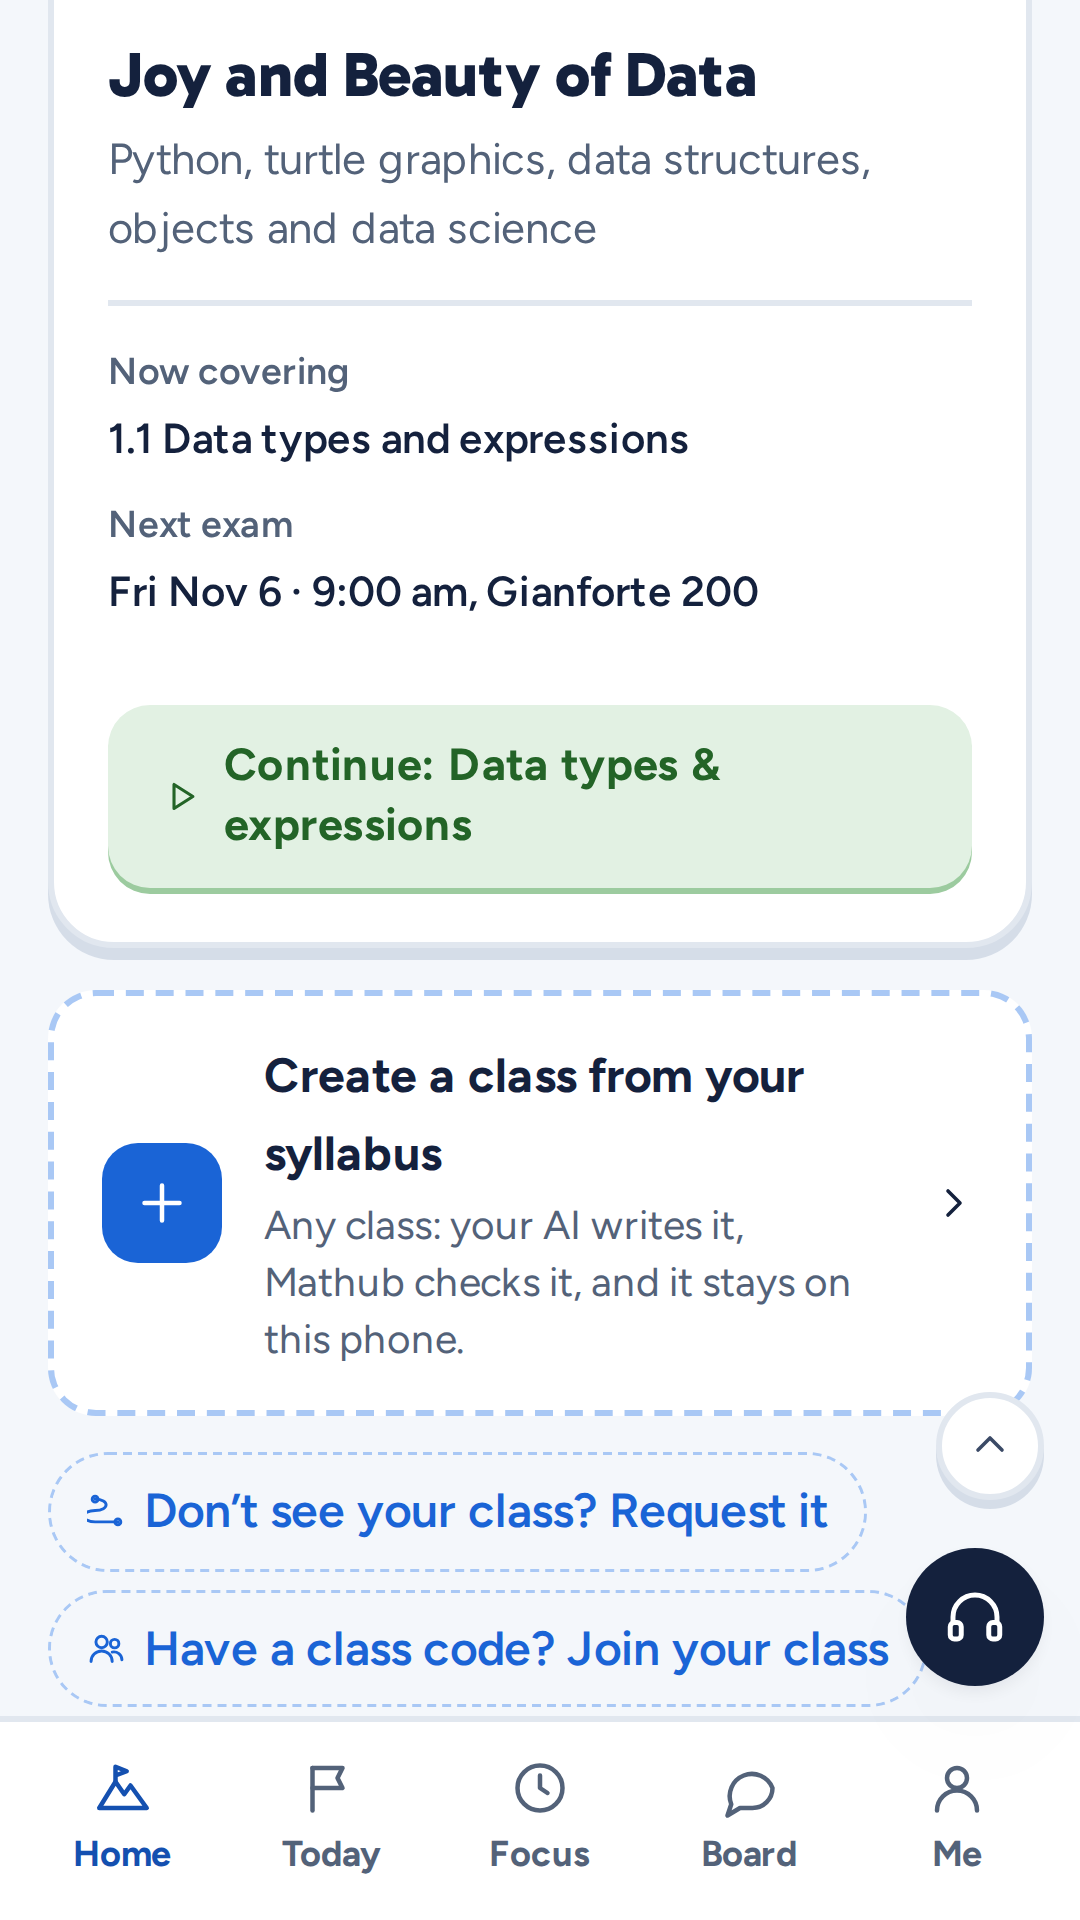
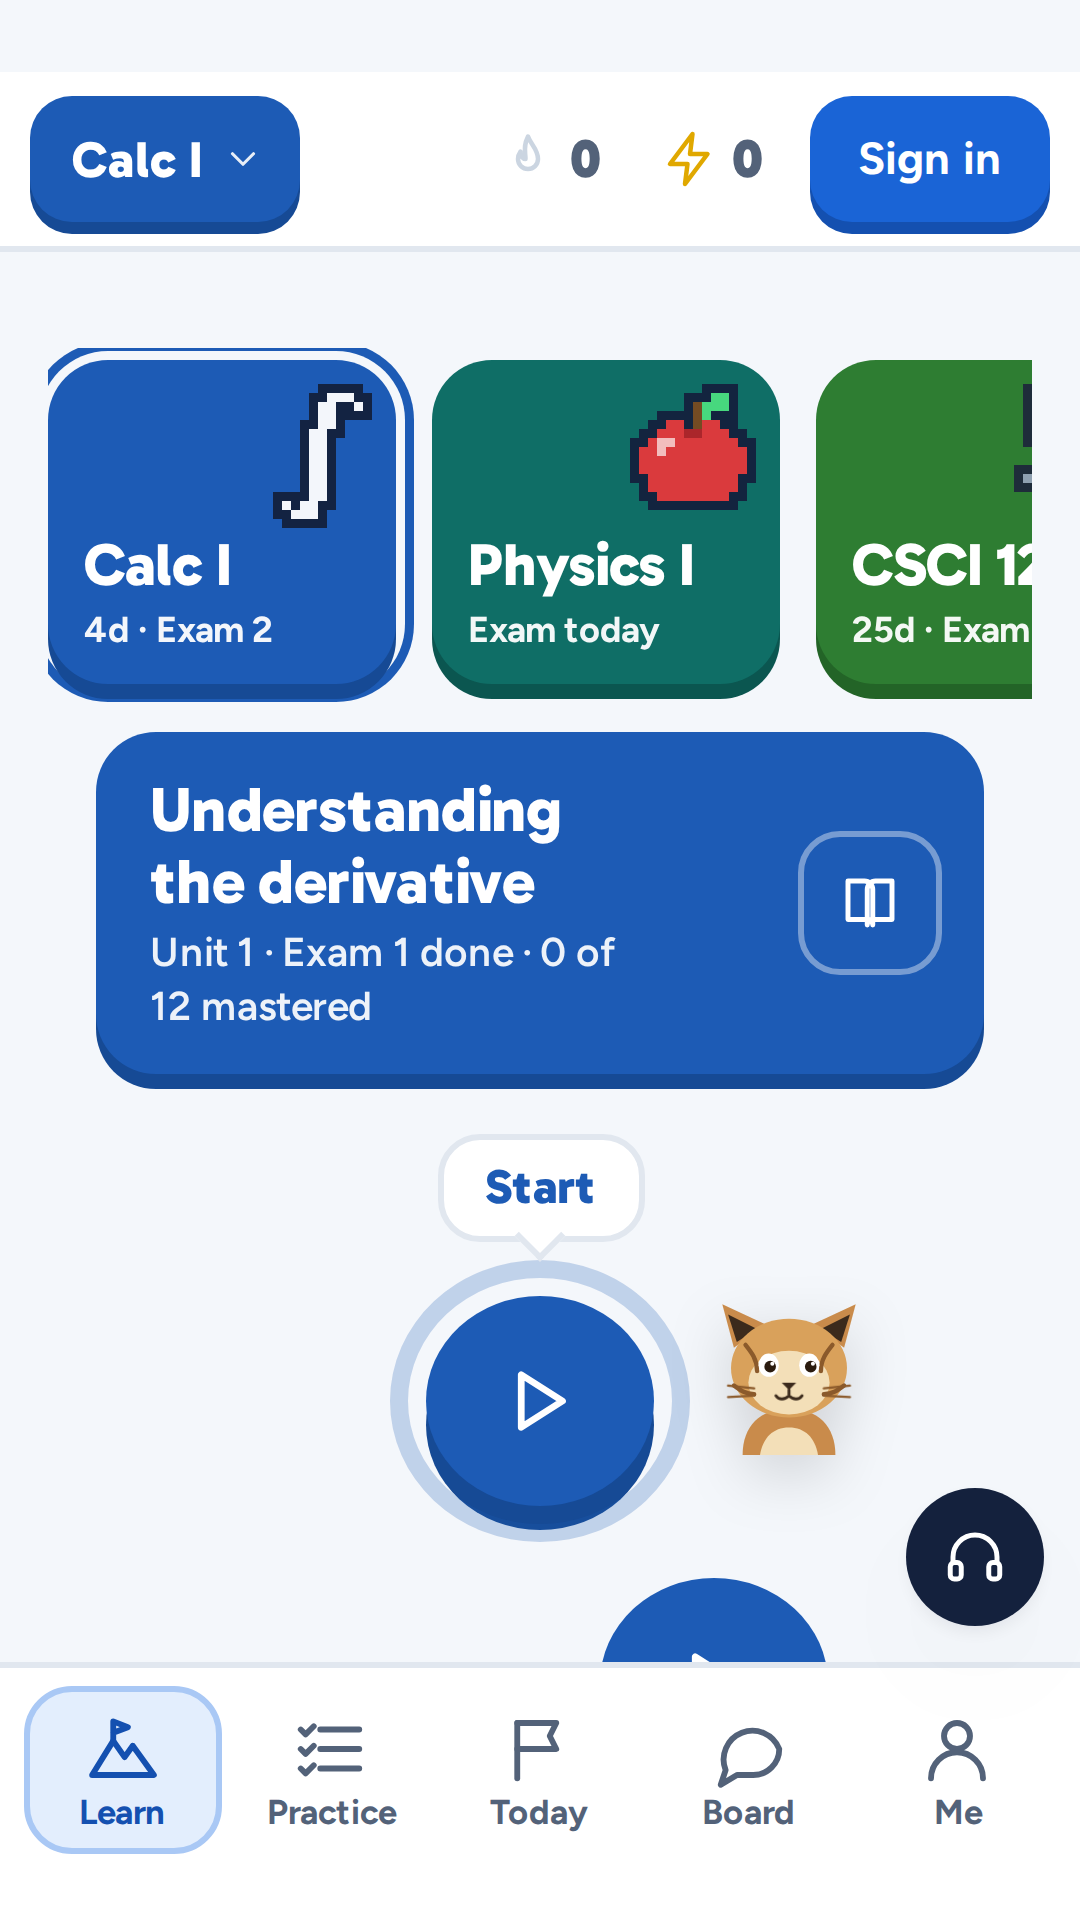
App shell polish, Play screenshots of the new look, build 2026.10.12.4
- The start page scrolls to the next lesson only when it is out of
  sight, so the class cards stay in view on small phones.
- An opened lesson card scrolls fully into view above the tab bar, and
  the floating sound button steps aside while it is open.
- Play listing screenshots retaken from the new app layout (Learn path,
  lesson card, class sheet, Create a class, class page, practice).
- Changelog entry and build bump.

Claude-Session: https://claude.ai/code/session_012sNimWK4tU3ur2CRnUSfEk

diff --git a/calc1/index.html b/calc1/index.html
@@ -1,5 +1,5 @@
 <!DOCTYPE html>
-<html lang="en" data-build="2026.10.12.3">
+<html lang="en" data-build="2026.10.12.4">
 <head>
   <meta charset="UTF-8">
   <meta name="viewport" content="width=device-width, initial-scale=1.0">
@@ -25,20 +25,20 @@
   <script type="application/ld+json">{"@context":"https://schema.org","@graph":[{"@type":"WebSite","@id":"https://mathub.space/#website","url":"https://mathub.space/","name":"Mathub","description":"Free study hub for Montana State University students: topic notes, endless practice, flashcards, deadline calendars, simulators, a Python playground and a class board.","inLanguage":"en","publisher":{"@id":"https://mathub.space/#org"}},{"@type":"Organization","@id":"https://mathub.space/#org","name":"Mathub","url":"https://mathub.space/","logo":"https://mathub.space/assets/icon-512.png"},{"@type":"ItemList","name":"Study guides by class","itemListElement":[{"@type":"ListItem","position":1,"name":"M171 Calculus I study guide","url":"https://mathub.space/learn/calc/"},{"@type":"ListItem","position":2,"name":"PHSX 220 Physics I study guide","url":"https://mathub.space/learn/physics/"},{"@type":"ListItem","position":3,"name":"M151Q Precalculus study guide","url":"https://mathub.space/learn/precalc/"},{"@type":"ListItem","position":4,"name":"WRIT 101 College Writing I guide","url":"https://mathub.space/learn/writ/"},{"@type":"ListItem","position":5,"name":"CSCI 127 Joy and Beauty of Data study guide","url":"https://mathub.space/learn/csci/"},{"@type":"ListItem","position":6,"name":"BIOB 160 Principles of Living Systems study guide","url":"https://mathub.space/learn/biob/"},{"@type":"ListItem","position":7,"name":"KIN 322 Kinesiology study guide","url":"https://mathub.space/learn/kin/"},{"@type":"ListItem","position":8,"name":"PSYX 340 Psychological Disorders study guide","url":"https://mathub.space/learn/psyx/"}]}]}</script>
   <meta name="apple-mobile-web-app-title" content="Mathub">
   <meta name="mobile-web-app-capable" content="yes">
-  <link rel="icon" type="image/svg+xml" href="assets/icon.svg?v=2026.10.12.3">
-  <link rel="icon" type="image/png" sizes="32x32" href="assets/icon-32.png?v=2026.10.12.3">
-  <link rel="apple-touch-icon" sizes="180x180" href="assets/icon-180.png?v=2026.10.12.3">
-  <link rel="manifest" href="assets/manifest.webmanifest?v=2026.10.12.3">
-  <link rel="stylesheet" href="assets/fonts.css?v=2026.10.12.3">
+  <link rel="icon" type="image/svg+xml" href="assets/icon.svg?v=2026.10.12.4">
+  <link rel="icon" type="image/png" sizes="32x32" href="assets/icon-32.png?v=2026.10.12.4">
+  <link rel="apple-touch-icon" sizes="180x180" href="assets/icon-180.png?v=2026.10.12.4">
+  <link rel="manifest" href="assets/manifest.webmanifest?v=2026.10.12.4">
+  <link rel="stylesheet" href="assets/fonts.css?v=2026.10.12.4">
   <meta name="apple-mobile-web-app-status-bar-style" content="default">
-  <link rel="stylesheet" href="assets/styles.css?v=2026.10.12.3">
-  <link rel="stylesheet" href="assets/motion.css?v=2026.10.12.3">
-  <link rel="stylesheet" href="assets/realm.css?v=2026.10.12.3">
-  <link rel="stylesheet" href="assets/world.css?v=2026.10.12.3">
-  <link rel="stylesheet" href="assets/teach.css?v=2026.10.12.3">
+  <link rel="stylesheet" href="assets/styles.css?v=2026.10.12.4">
+  <link rel="stylesheet" href="assets/motion.css?v=2026.10.12.4">
+  <link rel="stylesheet" href="assets/realm.css?v=2026.10.12.4">
+  <link rel="stylesheet" href="assets/world.css?v=2026.10.12.4">
+  <link rel="stylesheet" href="assets/teach.css?v=2026.10.12.4">
   <link rel="preload" href="assets/fonts/figtree-var.woff2" as="font" type="font/woff2" crossorigin>
   <link rel="preload" href="assets/fonts/gabarito-var.woff2" as="font" type="font/woff2" crossorigin>
-  <script src="assets/boot.js?v=2026.10.12.3"></script>
+  <script src="assets/boot.js?v=2026.10.12.4"></script>
   <script id="MathJax-script" async src="https://cdn.jsdelivr.net/npm/mathjax@3.2.2/es5/tex-svg.js"></script>
 </head>
 <body>
@@ -81,43 +81,43 @@
       <footer class="site-foot"><span>Created by <b>Nikoloz Nonikashvili</b></span><span class="sep">·</span><a href="#/contact">Contact</a><span class="sep">·</span><a href="#/policy">Terms &amp; Privacy</a><span class="sep">·</span><a href="#/forum">Discussions</a><span class="sep">·</span><a href="#/teach">For professors</a><span class="sep">·</span><a href="learn/">Study guides</a><span class="sep">·</span><span>Mathub · Montana State · Fall 2026</span></footer>
     </div>
   </div>
-  <script src="assets/courses-index.js?v=2026.10.12.3"></script>
-  <script src="assets/ladders.js?v=2026.10.12.3"></script>
-  <script src="assets/app.js?v=2026.10.12.3"></script>
-  <script src="assets/motion.js?v=2026.10.12.3"></script>
-  <script src="assets/gsap-fx.js?v=2026.10.12.3"></script>
-  <script src="assets/pixel.js?v=2026.10.12.3"></script>
-  <script src="assets/geek.js?v=2026.10.12.3"></script>
-  <script src="assets/realm.js?v=2026.10.12.3"></script>
-  <script src="assets/gami.js?v=2026.10.12.3"></script>
-  <script src="assets/quests.js?v=2026.10.12.3"></script>
-  <script src="assets/lesson.js?v=2026.10.12.3"></script>
-  <script src="assets/reader.js?v=2026.10.12.3"></script>
-  <script src="assets/ambient.js?v=2026.10.12.3"></script>
-  <script src="assets/tools.js?v=2026.10.12.3"></script>
-  <script src="assets/planner.js?v=2026.10.12.3"></script>
-  <script src="assets/gpa.js?v=2026.10.12.3"></script>
-  <script src="assets/today.js?v=2026.10.12.3"></script>
-  <script src="assets/report.js?v=2026.10.12.3"></script>
-  <script src="assets/pwa.js?v=2026.10.12.3"></script>
-  <script src="assets/changelog.js?v=2026.10.12.3"></script>
-  <script src="assets/resources-data.js?v=2026.10.12.3"></script>
-  <script src="assets/guides-data.js?v=2026.10.12.3"></script>
-  <script src="assets/resources.js?v=2026.10.12.3"></script><script src="assets/requests.js?v=2026.10.12.3"></script><script src="assets/classpacks.js?v=2026.10.12.3"></script>
-  <script src="assets/focus.js?v=2026.10.12.3"></script>
-  <script src="assets/readiness.js?v=2026.10.12.3"></script>
-  <script src="assets/mistakes.js?v=2026.10.12.3"></script>
-  <script src="assets/cheatsheet.js?v=2026.10.12.3"></script>
-  <script src="assets/mynotes.js?v=2026.10.12.3"></script>
-  <script src="assets/blitz.js?v=2026.10.12.3"></script>
-  <script src="assets/utils.js?v=2026.10.12.3"></script>
-  <script src="assets/recap.js?v=2026.10.12.3"></script>
-  <script src="assets/tour.js?v=2026.10.12.3"></script>
-  <script src="assets/forum.js?v=2026.10.12.3"></script>
-  <script src="assets/social.js?v=2026.10.12.3"></script>
-  <script src="assets/admin.js?v=2026.10.12.3"></script>
-  <script src="assets/teach.js?v=2026.10.12.3"></script>
-  <script src="assets/policy.js?v=2026.10.12.3"></script>
-  <script src="assets/auth.js?v=2026.10.12.3"></script>
+  <script src="assets/courses-index.js?v=2026.10.12.4"></script>
+  <script src="assets/ladders.js?v=2026.10.12.4"></script>
+  <script src="assets/app.js?v=2026.10.12.4"></script>
+  <script src="assets/motion.js?v=2026.10.12.4"></script>
+  <script src="assets/gsap-fx.js?v=2026.10.12.4"></script>
+  <script src="assets/pixel.js?v=2026.10.12.4"></script>
+  <script src="assets/geek.js?v=2026.10.12.4"></script>
+  <script src="assets/realm.js?v=2026.10.12.4"></script>
+  <script src="assets/gami.js?v=2026.10.12.4"></script>
+  <script src="assets/quests.js?v=2026.10.12.4"></script>
+  <script src="assets/lesson.js?v=2026.10.12.4"></script>
+  <script src="assets/reader.js?v=2026.10.12.4"></script>
+  <script src="assets/ambient.js?v=2026.10.12.4"></script>
+  <script src="assets/tools.js?v=2026.10.12.4"></script>
+  <script src="assets/planner.js?v=2026.10.12.4"></script>
+  <script src="assets/gpa.js?v=2026.10.12.4"></script>
+  <script src="assets/today.js?v=2026.10.12.4"></script>
+  <script src="assets/report.js?v=2026.10.12.4"></script>
+  <script src="assets/pwa.js?v=2026.10.12.4"></script>
+  <script src="assets/changelog.js?v=2026.10.12.4"></script>
+  <script src="assets/resources-data.js?v=2026.10.12.4"></script>
+  <script src="assets/guides-data.js?v=2026.10.12.4"></script>
+  <script src="assets/resources.js?v=2026.10.12.4"></script><script src="assets/requests.js?v=2026.10.12.4"></script><script src="assets/classpacks.js?v=2026.10.12.4"></script>
+  <script src="assets/focus.js?v=2026.10.12.4"></script>
+  <script src="assets/readiness.js?v=2026.10.12.4"></script>
+  <script src="assets/mistakes.js?v=2026.10.12.4"></script>
+  <script src="assets/cheatsheet.js?v=2026.10.12.4"></script>
+  <script src="assets/mynotes.js?v=2026.10.12.4"></script>
+  <script src="assets/blitz.js?v=2026.10.12.4"></script>
+  <script src="assets/utils.js?v=2026.10.12.4"></script>
+  <script src="assets/recap.js?v=2026.10.12.4"></script>
+  <script src="assets/tour.js?v=2026.10.12.4"></script>
+  <script src="assets/forum.js?v=2026.10.12.4"></script>
+  <script src="assets/social.js?v=2026.10.12.4"></script>
+  <script src="assets/admin.js?v=2026.10.12.4"></script>
+  <script src="assets/teach.js?v=2026.10.12.4"></script>
+  <script src="assets/policy.js?v=2026.10.12.4"></script>
+  <script src="assets/auth.js?v=2026.10.12.4"></script>
 </body>
 </html>

diff --git a/calc1/assets/changelog.js b/calc1/assets/changelog.js
@@ -7,6 +7,7 @@
 (function (global) {
   'use strict';
   const LOG = [
+    { v: '2026.10.12.4', d: '2026-10-12', t: 'The apps get a look of their own', items: ['In the iPhone and Android apps the start page is now your path: a card for each of your classes along the top, and the chosen class laid out lesson by lesson, unit by unit, with Bo waiting at the next one and each exam as a checkpoint. Tap a lesson to start it, practise it or read its notes.', 'A new top bar in the apps shows your streak, today\u2019s XP and your account. Tap the class button for every tool of that class in one sheet, or to switch class or make a new one.', 'Learn, Practice, Today, Board and Me sit along the bottom, with bigger buttons for thumbs. The website looks the same as before.'] },
     { v: '2026.10.12.3', d: '2026-10-12', t: 'Mathub for Android, and how to delete your account', items: ['Mathub is coming to Android too: the same app as on iPhone, offline, with Create a class, reminders and the back button working the Android way.', 'The policy page has a new section, Deleting your Mathub account (mathub.space/#/policy/delete): how to delete it yourself in Settings, how to ask us if you cannot sign in, and exactly what is deleted and what is kept without your name.'] },
     { v: '2026.10.12.2', d: '2026-10-12', t: 'Block members, and Mathub for iPhone and iPad', items: ['Block is now under every post and comment in Discussions, next to Report. Blocking someone hides their posts, comments, study sessions and notifications from you right away, and the post goes to the moderators. They are not told. You can see and undo your blocks in Settings, under Blocked members.', 'The Terms and Community Rules now say it plainly: no tolerance for abusive posts, and every report is looked at within 24 hours.', 'Mathub is coming to iPhone and iPad. The app works offline, needs no account for any study tool, and adds Create a class: give any AI your syllabus with the app’s instructions, paste the answer back, and the class (notes, flashcards, practice, calendar) is saved on your phone.', 'Links you share (a discussion, a Python snippet, your calendar feed, an invite) always point at mathub.space.'] },
     { v: '2026.10.12.1', d: '2026-10-12', t: 'Mathub Faculty: a workspace of its own for professors', items: ['The professors’ section moved out of the student site into Mathub Faculty: one “For professors” button on the start page (and in the footer) opens a separate workspace with its own frame, a navy sidebar, serif headings and quiet controls, and none of the mascot, XP or game pieces.', 'It is built around writing the syllabus: one page each for the course details, people and office hours, description and outcomes, materials, schedule, exams, grading and policies, with the finished syllabus beside the form, updating as you type and marking the part you are editing. Print it or save it as a PDF from any page.', 'Anyone signed in can write, print and save syllabi right away; publishing to students, the roster, announcements, assignments, attendance and insights turn on once an administrator confirms your faculty status.', 'A class page for the overview (what is missing, the join code, links to the public syllabus and to the class as students see it), class settings with unpublish and delete, and a full-screen check-in code for the projector.', 'A class you teach no longer shows up among your own classes on the student site; you can still open it there as a preview.'] },

diff --git a/calc1/assets/app-native.js b/calc1/assets/app-native.js
@@ -554,8 +554,10 @@ THE SYLLABUS:
       root.addEventListener('click', e => {
         if (e.target.closest('[data-ab-add]')) { N.haptic('select'); openSheet(); return; }
         const card = e.target.closest('.ah-card[data-cid]'); if (card) { N.haptic('select'); setClass(card.dataset.cid); App.rerender(); return; }
-        const node = e.target.closest('.ap-node'); if (node) { N.haptic('select'); const li = node.closest('.ap-li'); const p = $('.ap-pop', li); const open = p.hidden; $$('.ap-pop', root).forEach(x => { x.hidden = true; }); $$('.ap-node', root).forEach(x => x.setAttribute('aria-expanded', 'false')); $$('.ap-li.open', root).forEach(x => x.classList.remove('open')); p.hidden = !open; li.classList.toggle('open', open); node.setAttribute('aria-expanded', String(open)); return; }
-        if (!e.target.closest('.ap-pop')) { $$('.ap-pop', root).forEach(x => { x.hidden = true; }); $$('.ap-li.open', root).forEach(x => x.classList.remove('open')); }
+        const node = e.target.closest('.ap-node'); if (node) { N.haptic('select'); const li = node.closest('.ap-li'); const p = $('.ap-pop', li); const open = p.hidden; $$('.ap-pop', root).forEach(x => { x.hidden = true; }); $$('.ap-node', root).forEach(x => x.setAttribute('aria-expanded', 'false')); $$('.ap-li.open', root).forEach(x => x.classList.remove('open')); p.hidden = !open; li.classList.toggle('open', open); document.body.classList.toggle('ap-open', open); node.setAttribute('aria-expanded', String(open));
+          if (open) { const lim = innerHeight - ($('#tabbar') || { offsetHeight: 0 }).offsetHeight - 16, below = p.getBoundingClientRect().bottom - lim; if (below > 0) scrollBy({ top: below, behavior: N.reduceMotion() ? 'auto' : 'smooth' }); }   // the card opens fully in view, above the tab bar
+          return; }
+        if (!e.target.closest('.ap-pop')) { $$('.ap-pop', root).forEach(x => { x.hidden = true; }); $$('.ap-li.open', root).forEach(x => x.classList.remove('open')); document.body.classList.remove('ap-open'); }
       });
       if (!id) return;
       App.loadCourse(id).then(C => {
@@ -584,7 +586,7 @@ THE SYLLABUS:
     /* web push needs a home-screen web app; the app has its own reminders in the panel below */
     if (r.view === 'settings') { const push = $('#acct-push', root); if (push && push.closest('section')) push.closest('section').remove(); }
     if (r.view === 'settings') { const acct = $('#acct-panel', root) || $('.acct-panel', root); const grid = $('.grid.cols-2', root); if (grid && !$('#app-panel', root)) { (acct ? acct : grid.firstElementChild || grid).insertAdjacentHTML(acct ? 'afterend' : 'beforebegin', devicePanel()); wireDevicePanel($('#app-panel', root)); } }
-    lastRoute = r; paintAppBar(r); paintTabs(r); const p = $('.ab-pop'); if (p) p.remove(); const sh = $('#class-sheet'); if (sh) sh.remove();
+    lastRoute = r; document.body.classList.remove('ap-open'); paintAppBar(r); paintTabs(r); const p = $('.ab-pop'); if (p) p.remove(); const sh = $('#class-sheet'); if (sh) sh.remove();
     if (r.course && r.view === 'dashboard' && local.has(r.course) && !$('.mk-strip', root)) root.insertAdjacentHTML('afterbegin', `<p class="mk-strip small">${icon('file', 13)} A class you created from your syllabus, saved on this ${DEVICE}. <a href="#/create">Manage it</a></p>`);
   });
   document.addEventListener('DOMContentLoaded', () => setTimeout(() => Reminders.sync(), 1500));

diff --git a/calc1/assets/app.css b/calc1/assets/app.css
@@ -146,7 +146,8 @@ html[data-app] .ap-banner h2 { margin: 0; color: inherit; font: 800 21px/1.12 va
 .ap-guide:active { background: color-mix(in srgb, var(--cc-ink, #fff) 16%, transparent); }
 .ap-nodes { list-style: none; margin: 0; padding: 74px 0 10px; display: flex; flex-direction: column; align-items: center; gap: 24px; }
 .ap-li { position: relative; display: flex; flex-direction: column; align-items: center; transform: translateX(var(--x)); }
-.ap-li.open { z-index: 7; }   /* each node is its own layer (the transform), so the open one rises above the nodes after it */
+.ap-li.open { z-index: 7; }
+html[data-app] body.ap-open #ambient { opacity: 0; pointer-events: none; }   /* the sound button would sit on the open lesson card's buttons */   /* each node is its own layer (the transform), so the open one rises above the nodes after it */
 .ap-node { width: 76px; height: 70px; display: grid; place-items: center; border: 0; border-radius: 50%; background: var(--cc, var(--accent)); color: var(--cc-ink, #fff); box-shadow: 0 8px 0 var(--cc-deep, var(--accent-deep)); transition: transform .08s ease-out, box-shadow .08s ease-out; }
 .ap-node:active { transform: translateY(8px); box-shadow: 0 0 0 var(--cc-deep, var(--accent-deep)); }
 .ap-li.done .ap-node { background: var(--pine); color: #fff; box-shadow: 0 8px 0 var(--pine-deep); }
